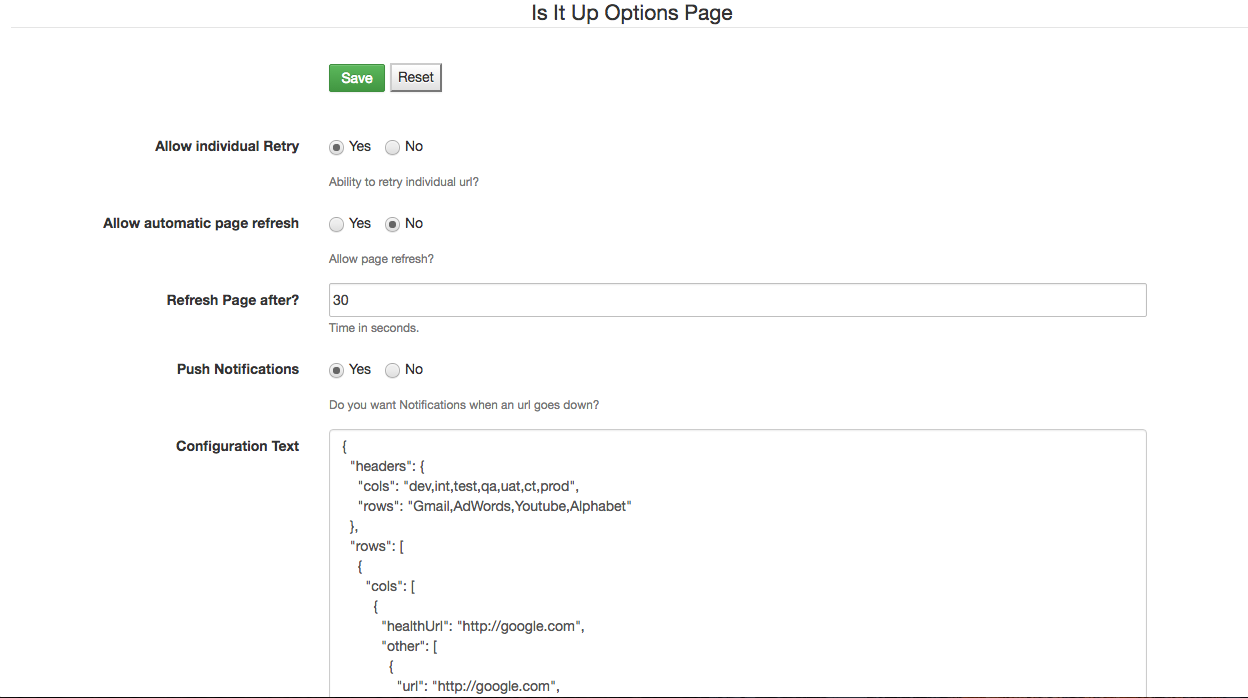
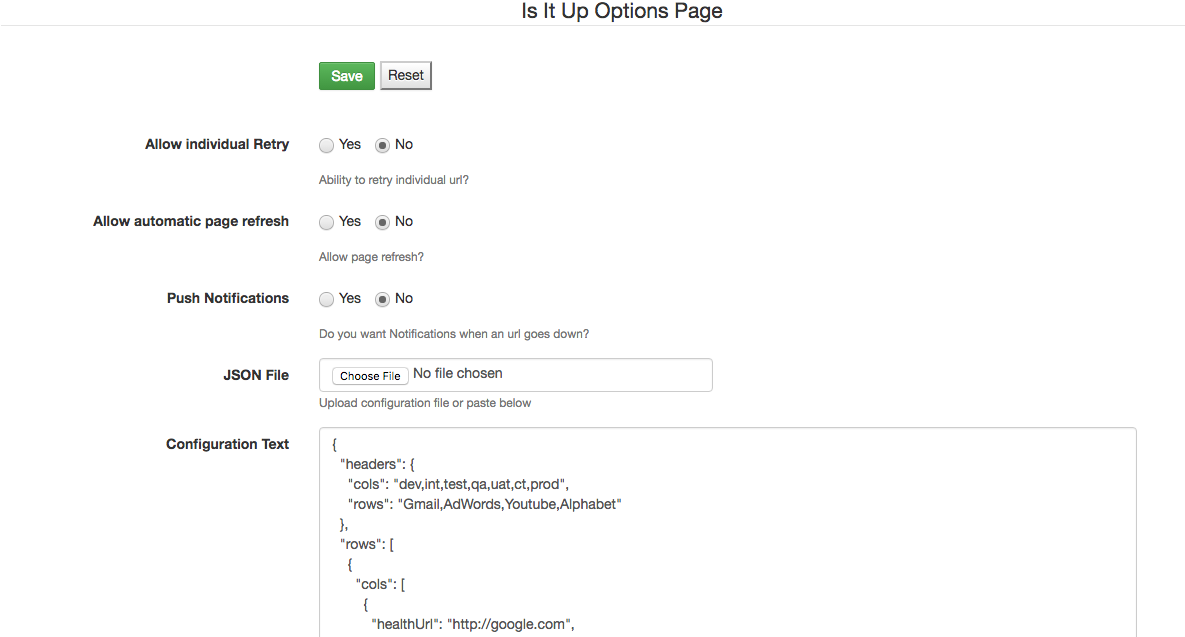
file upload

diff --git a/js/options.js b/js/options.js
@@ -1,28 +1,32 @@
 $(document).ready(function () {
 
+    document.getElementById('confFileUpld').addEventListener('change', readSingleFile, false);
+
     var filePath;
 
-   /* $("input:file").change(function () {
-        filePath = $(this).val();
-        filePath = filePath.replace("C:\\fakepath\\", "");
-        if(filePath){
-            jQuery.get(filePath, function (data) {
-                var IS_JSON = true;
-                try {
-                    var json = $.parseJSON(data);
-                }
-                catch (err) {
-                    IS_JSON = false;
-                }
-                if(IS_JSON){
-                    $("textarea[name='cfgTxt']").val(data);
-                }else{
-                    alert("Invalid configuration Json file!!");
-                }
-                
-            });
-        }  
-    });*/
+    /*$("input:file").change(function () {
+         filePath = $(this).val();
+         
+         filePath = filePath.replace("C:\\fakepath\\", "");
+         if(filePath){
+             jQuery.get(filePath, function (data) {
+                 var IS_JSON = true;
+                 try {
+                     var json = $.parseJSON(data);
+                 }
+                 catch (err) {
+                     IS_JSON = false;
+                 }
+                 if(IS_JSON){
+                     $("textarea[name='cfgTxt']").val(data);
+                 }else{
+                     alert("Invalid configuration Json file!!");
+                 }
+                 
+             });
+         }  
+     }); */
+
 
 
     // get values from localsync
@@ -33,37 +37,37 @@ $(document).ready(function () {
         pageRefreshAfter: 30,
         cfgTxt: ""
     }, function (items) {
-        if(items.cfgTxt){
+        if (items.cfgTxt) {
             $("textarea[name='cfgTxt']").val(items.cfgTxt);
         }
-        else{
+        else {
             jQuery.get("conf/defaultConf.json", function (data) {
                 $("textarea[name='cfgTxt']").val(data);
             });
         }
-        
 
-        if(items.allowIndividualRetry){
+
+        if (items.allowIndividualRetry) {
             $('#pageRefreshAfterId').show();
         }
         $('#pageRefreshAfter').val(items.pageRefreshAfter);
 
-        if(items.allowIndividualRetry){
-            $('#allowIndividualRetry-0').prop('checked',true);
-        }else{
-           $('#allowIndividualRetry-1').prop('checked',true); 
+        if (items.allowIndividualRetry) {
+            $('#allowIndividualRetry-0').prop('checked', true);
+        } else {
+            $('#allowIndividualRetry-1').prop('checked', true);
         }
 
-        if(items.allowAutomaticRefresh){
-            $('#allowAutomaticRefresh-0').prop('checked',true);
-        }else{
-           $('#allowAutomaticRefresh-1').prop('checked',true); 
+        if (items.allowAutomaticRefresh) {
+            $('#allowAutomaticRefresh-0').prop('checked', true);
+        } else {
+            $('#allowAutomaticRefresh-1').prop('checked', true);
         }
 
-        if(items.pushNotifications){
-            $('#pushNotifications-0').prop('checked',true);
-        }else{
-           $('#pushNotifications-1').prop('checked',true); 
+        if (items.pushNotifications) {
+            $('#pushNotifications-0').prop('checked', true);
+        } else {
+            $('#pushNotifications-1').prop('checked', true);
         }
 
 
@@ -84,8 +88,8 @@ $(document).ready(function () {
         var pushNotifications = ($("input[name=pushNotifications]:checked").val() === 'Yes');
         var pageRefreshAfter = $("input[name=pageRefreshAfter]").val();
         var cfgTxt = $("textarea[name=cfgTxt]").val();
-  
-       
+
+
         chrome.storage.local.set({
             allowIndividualRetry: allowIndividualRetry,
             allowAutomaticRefresh: allowAutomaticRefresh,
@@ -99,7 +103,7 @@ $(document).ready(function () {
             setTimeout(function () {
                 status.textContent = '';
             }, 5000);
-            setTimeout(function(){
+            setTimeout(function () {
                 window.close();
             }, 1000)
         });
@@ -107,3 +111,31 @@ $(document).ready(function () {
     });
 
 });
+
+
+function readSingleFile(evt) {
+    //Retrieve the first (and only!) File from the FileList object
+    var f = evt.target.files[0];
+    if (f) {
+        var r = new FileReader();
+        r.onload = function (e) {
+            var contents = e.target.result;
+            var isJson = true;
+            try {
+                var json = $.parseJSON(contents);
+            }
+            catch (err) {
+                isJson = false;
+            }
+            if (isJson) {
+                $("textarea[name='cfgTxt']").val(contents);
+            } else {
+                alert("Invalid configuration Json file!!");
+            }
+        }
+        r.readAsText(f);
+    } else {
+        alert("Failed to load file");
+    }
+}
+

diff --git a/options.html b/options.html
@@ -111,13 +111,13 @@
                 </div>
             </div>
             <!-- JSON File-->
-            <!--<div class="form-group">
+            <div class="form-group">
                 <label class="col-md-3 control-label" for="confFileUpld">JSON File</label>
                 <div class="col-md-4">
                     <input id="confFileUpld" name="confFileUpld" type="file" class="form-control input-md" />
                     <small class="text-muted">Upload configuration file or paste below</small>
                 </div>
-            </div>  -->                     
+            </div>                    
 
             <div class="form-group" id="cfgTxt">
                 <label class="col-md-3 control-label" for="cfgTxt">

diff --git a/README.md b/README.md
@@ -7,16 +7,20 @@
 * Ability to refresh continously with a interval that can be configured
 * Ability to push Chrome notifications when environment is down.
 
+### Installation Steps
+* This can be installed from Chrome Store @
+* This can be installed in chrome as developer extension.
+
 ### Extension showing status of different components in multiple environments
 
-![Alt text](https://github.com/NaveenGurram/IsItUp/blob/master/screenshots/Extension.png "Extension")
+![Extension](https://github.com/NaveenGurram/IsItUp/blob/master/screenshots/Extension.png "Extension")
 
 ### Screenshot showing options page and all possible configurations
 
-![Alt text](https://github.com/NaveenGurram/IsItUp/blob/master/screenshots/Options.png "Options Page")
+![Options](https://github.com/NaveenGurram/IsItUp/blob/master/screenshots/Options.png "Options Page")
 
 ### Screenshot visual representation of JSON file.
 [Download Sample Configuration File](./conf/defaultConf.json)
 
-![Alt text](https://github.com/NaveenGurram/IsItUp/blob/master/screenshots/ConfigurationJson.png?raw=true "Configuration Json Visual Representation")
+![Configuration](https://github.com/NaveenGurram/IsItUp/blob/master/screenshots/ConfigurationJson.png?raw=true "Configuration Json Visual Representation")
 
